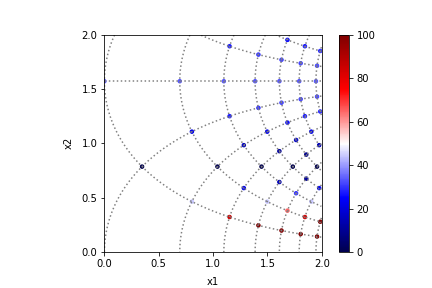
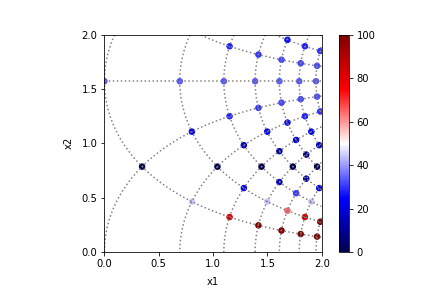
Add files via upload

diff --git a/laplace_experiment.py b/laplace_experiment.py
@@ -386,19 +386,19 @@ class GoverningEquations(Laplacian):
     """ Derive Governing Equations """
     
     def __init__(self, f_id, x, s, unknown, x_value, unknown_init_error, 
-                 highest_order):
+                 taylor_order):
         self.Laplacian = Laplacian(f_id, x, s, unknown, x_value, unknown_init_error)
         self.Metric = self.Laplacian.Metric
         self.Derivative = self.Laplacian.Metric.Derivative
         self.Taylor = self.Laplacian.Metric.Derivative.Taylor
-        self.highest_order = highest_order
+        self.taylor_order = taylor_order
         self.x =  x
         self.x_value = x_value
 
     def governing_equation_0(self):
         """ Coefficients of du/ds2 """
         du_ds2 = self.Derivative.du_ds()[1]
-        N = self.highest_order
+        N = self.taylor_order
         x = self.x
         x_value = self.x_value
         
@@ -421,7 +421,7 @@ class GoverningEquations(Laplacian):
     def governing_equation_1(self):
         """ Coefficients of g_12 """
         g12 = self.Metric.supermetric()[0][1]
-        N = self.highest_order
+        N = self.taylor_order
         x = self.x
         x_value = self.x_value
         
@@ -444,7 +444,7 @@ class GoverningEquations(Laplacian):
     def governing_equation_2(self):
         """ Coefficients of Δu """
         laplacian_u = self.Laplacian.laplacian_u()
-        N = self.highest_order
+        N = self.taylor_order
         x = self.x
         x_value = self.x_value
         
@@ -469,13 +469,13 @@ class Solve(BoundaryConditions, GoverningEquations):
     """ Solve BVP of Each Line Element by Non-linear Least Square Algorithm """
     
     def __init__(self, f_id, x, s, unknown, x_value, unknown_init_error, 
-                 element_size, highest_order):
+                 element_size, taylor_order):
         self.BC = BoundaryConditions(f_id, x, s, unknown, x_value, 
                                      unknown_init_error, element_size)
         self.GE = GoverningEquations(f_id, x, s, unknown, x_value, 
-                                     unknown_init_error, highest_order)
+                                     unknown_init_error, taylor_order)
         self.Unknown = self.BC.Taylor.Unknown
-        self.highest_order = highest_order
+        self.taylor_order = taylor_order
         self.unknown = unknown
     
     def f(self):
@@ -483,9 +483,9 @@ class Solve(BoundaryConditions, GoverningEquations):
         ge0 = self.GE.governing_equation_0()
         ge1 = self.GE.governing_equation_1()
         ge2 = self.GE.governing_equation_2()
-        highest_order = self.highest_order
+        taylor_order = self.taylor_order
         
-        len_f = int(3/2*(highest_order + 1)*(highest_order + 2) + 2)
+        len_f = int(3/2*(taylor_order + 1)*(taylor_order + 2) + 2)
         
         f = np.ndarray((len_f), 'object')
         f[0] = bc[0]
@@ -556,26 +556,14 @@ class Solve(BoundaryConditions, GoverningEquations):
     
         return residual   
     
-    def solution(self, newton_tol, solver_id):
+    def solution(self, newton_tol):
         unknown_temp = self.Unknown.unknown_init()
         jacobian_f = self.jacobian_f(unknown_temp)
         residual = self.residual(unknown_temp)
             
         while np.linalg.norm(residual) > newton_tol:
-            if solver_id == 'np.solve':
-                increment = np.linalg.solve(jacobian_f, residual)
-            if solver_id == 'np.lstsq':
-                increment = np.linalg.lstsq(jacobian_f, residual)[0]
-            if solver_id == 'scp.spsolve':
-                increment = scp.sparse.linalg.spsolve(jacobian_f, residual)
-            if solver_id == 'scp.bicg':
-                increment = scp.sparse.linalg.bicg(jacobian_f, residual)[0]
-            if solver_id == 'scp.lsqr':
-                increment = scp.sparse.linalg.lsqr(jacobian_f, residual)[0]
-            if solver_id == 'scp.lsmr':
-                increment = scp.sparse.linalg.lsmr(jacobian_f, residual)[0]
-            
-            unknown_temp -= increment
+            increment = np.linalg.lstsq(jacobian_f, -residual)[0]            
+            unknown_temp += increment
             jacobian_f = self.jacobian_f(unknown_temp)
             residual = self.residual(unknown_temp)
         solution = unknown_temp

diff --git a/laplace_visualization.py b/laplace_visualization.py
@@ -156,7 +156,7 @@ class TerminalPlot(TheoryPlot):
         
         error_plot = plt.scatter(x_target_array[:, :, 0], 
                                  x_target_array[:, :, 1], 
-                                 s = 12,
+                                 s = 30,
                                  vmin = 0,
                                  vmax = 100,
                                  c = unknown_terminal_error_array, 
@@ -233,15 +233,15 @@ if __name__ == '__main__':
     unknown[8] = syp.Symbol('u22', real = True)
     
     ###########################################################################
-    f_id = 'z^2'
-    element_size = 1.0e-1
-    newton_tol = 1.0e-7
-    x_min = np.ndarray((2))
-    x_min[0] = 0.0
-    x_min[1] = 0.0
-    x_max = np.ndarray((2))
-    x_max[0] = 2.0
-    x_max[1] = 2.0
+#    f_id = 'z^2'
+#    element_size = 1.0e-1
+#    newton_tol = 1.0e-7
+#    x_min = np.ndarray((2))
+#    x_min[0] = 0.0
+#    x_min[1] = 0.0
+#    x_max = np.ndarray((2))
+#    x_max[0] = 2.0
+#    x_max[1] = 2.0
     
 #    f_id = 'z^3'
 #    element_size = 1.0e-2
@@ -253,25 +253,24 @@ if __name__ == '__main__':
 #    x_max[0] = 2.0
 #    x_max[1] = 2.0
 
-#    f_id = 'exp(kz)'
-#    element_size = 1.0e-2
-#    newton_tol = 1.0e-9
-#    x_min = np.ndarray((2))
-#    x_min[0] = 0.0
-#    x_min[1] = 0.0
-#    x_max = np.ndarray((2))
-#    x_max[0] = 2.0
-#    x_max[1] = 2.0
-#    
+    f_id = 'exp(kz)'
+    element_size = 1.0e-2
+    newton_tol = 1.0e-9
+    x_min = np.ndarray((2))
+    x_min[0] = 0.0
+    x_min[1] = 0.0
+    x_max = np.ndarray((2))
+    x_max[0] = 2.0
+    x_max[1] = 2.0
+   
     unknown_init_error = 200.0
-    highest_order = 2
-    formulation_id = 'derivative'
-    solver_id = 'np.lstsq'
+    taylor_order = 2
     ###########################################################################
     
     print('')
     print('u = Re{',f_id,'}')
     print('')
+    print('unknown_error_init =', unknown_init_error)
     print('element_size =', element_size)
     print('newton_tol =', newton_tol)
     print('')
@@ -326,9 +325,9 @@ if __name__ == '__main__':
             ###################################################################
             Solve_call = laplace_experiment.Solve(f_id, x, s, unknown,
                                                   x_target, unknown_init_error,
-                                                  element_size, highest_order)
+                                                  element_size, taylor_order)
             ###################################################################
-            unknown_terminal = Solve_call.solution(newton_tol, solver_id)
+            unknown_terminal = Solve_call.solution(newton_tol)
             
             unknown_terminal_error = relative_error(unknown_theory, unknown_terminal)
             unknown_terminal_error_array[i][j] = unknown_terminal_error
